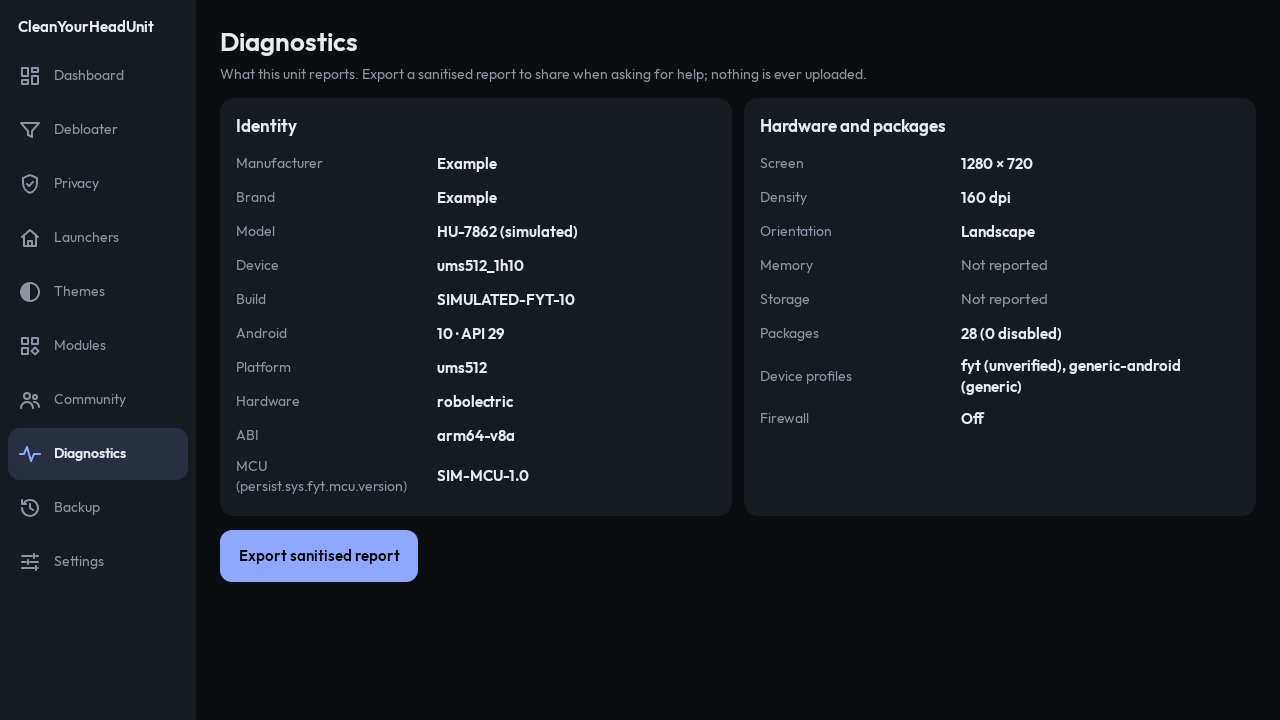
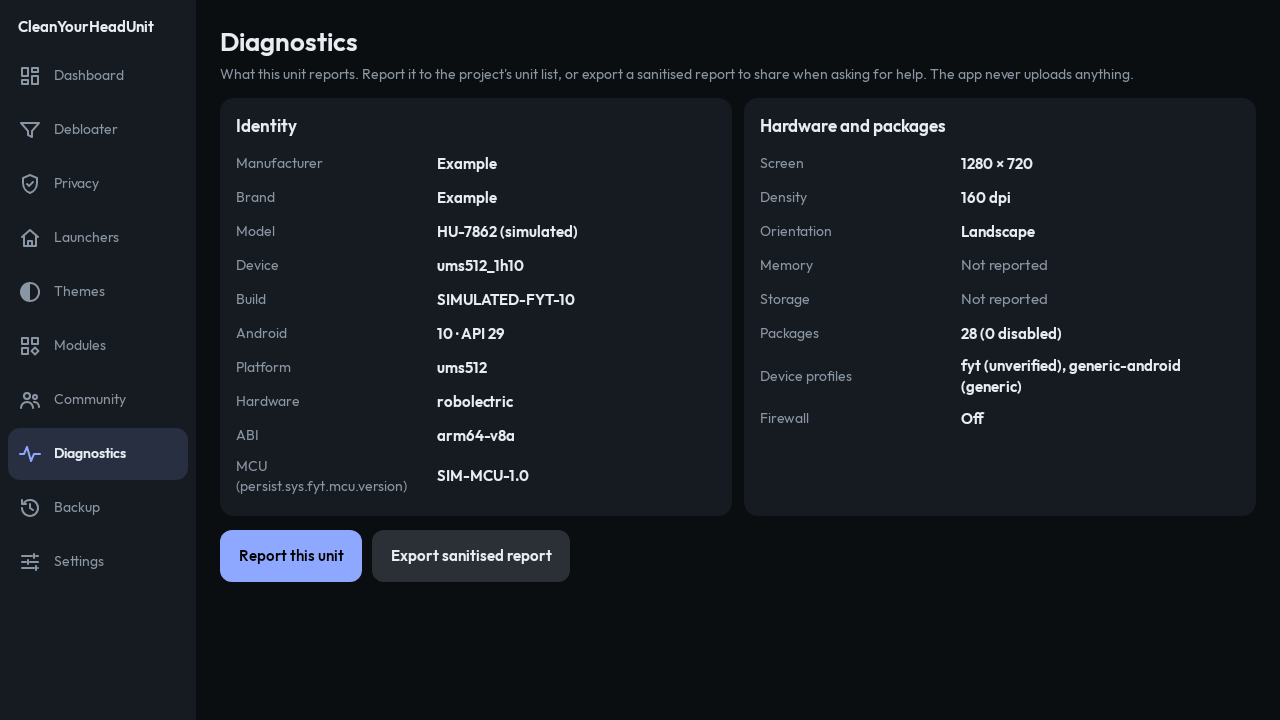
Diagnostics: Report this unit opens a pre-filled Compatibility report form
Fixed list of non-identifying facts (model, chip, real and claimed Android,
firmware, MCU, screen, package counts); shown before opening; nothing is
sent by the app. The form now asks for the car.

Changed region(s): [[0.1875, 0.7333, 0.4688, 0.825], [0.2812, 0.0917, 0.875, 0.1222]]

diff --git a/app/src/main/java/io/github/maxhayim/cleanyourheadunit/UnitReport.java b/app/src/main/java/io/github/maxhayim/cleanyourheadunit/UnitReport.java
@@ -1,0 +1,166 @@
+package io.github.maxhayim.cleanyourheadunit;
+
+import android.app.AlertDialog;
+import android.content.ActivityNotFoundException;
+import android.content.Context;
+import android.content.Intent;
+import android.net.Uri;
+
+import org.json.JSONException;
+import org.json.JSONObject;
+
+import java.io.File;
+import java.io.UnsupportedEncodingException;
+import java.net.URLEncoder;
+import java.util.LinkedHashMap;
+import java.util.Map;
+
+/**
+ * "Report this unit": opens GitHub's Compatibility report form in the browser, filled in with what
+ * the Dashboard shows. Only a fixed list of non-identifying facts goes in (never serials, MAC or IP
+ * addresses, network or account names). Nothing is sent by the app: the owner reads the form,
+ * adds the car and what worked, and presses Submit on GitHub themselves.
+ */
+final class UnitReport {
+    private UnitReport() {}
+
+    static final String FORM = "https://github.com/" + SelfUpdate.REPO + "/issues/new?template=compatibility-report.yml";
+    /** GitHub refuses very long addresses; stay well under its limit. */
+    static final int MAX_URL = 6000;
+
+    /** The only properties that go in. Each is also passed through Report.scrub. */
+    static final String[][] FACTS = {
+            {"manufacturer", "ro.product.manufacturer"},
+            {"brand", "ro.product.brand"},
+            {"model", "ro.product.model"},
+            {"device", "ro.product.device"},
+            {"platform", "ro.board.platform"},
+            {"hardware", "ro.hardware"},
+            {"build", "ro.build.display.id"},
+    };
+
+    static String prop(Unit u, String key) {
+        String v = Report.scrub(u.props.get(key));
+        return v == null || v.trim().isEmpty() ? null : v.trim();
+    }
+
+    /** The summary pasted into the form's Diagnostics box. */
+    static JSONObject summary(Context c, Unit u) throws JSONException {
+        JSONObject o = new JSONObject();
+        o.put("app", "CleanYourHeadUnit " + Screens.BuildConfigHolder.version(c));
+        for (String[] f : FACTS) {
+            String v = prop(u, f[1]);
+            if (v != null) o.put(f[0], v);
+        }
+        o.put("android", u.android());
+        if (u.androidSpoofed()) o.put("android_settings_say", u.claimedAndroid());
+        o.put("api", u.sdk());
+        if (u.abi() != null) o.put("abi", u.abi());
+        JSONObject mcu = new JSONObject();
+        for (Map.Entry<String, String> e : u.mcu().entrySet()) mcu.put(e.getKey(), Report.scrub(e.getValue()));
+        if (mcu.length() > 0) o.put("mcu", mcu);
+        o.put("screen", u.width + "x" + u.height + " " + u.dpi + "dpi " + u.orientation());
+        o.put("ram", Unit.mb(u.ramTotal));
+        o.put("firmware_family", u.firmwareFamily());
+        o.put("profiles", Screens.Diagnostics.profileNames(u));
+        Map<String, Integer> counts = new LinkedHashMap<>();
+        Rules r = u.rules(c);
+        for (Unit.Pkg p : u.packages.values()) {
+            String cat = r.classify(p.name, p.system).category;
+            Integer n = counts.get(cat);
+            counts.put(cat, n == null ? 1 : n + 1);
+        }
+        o.put("packages", new JSONObject(counts));
+        o.put("disabled", u.disabledCount());
+        if (u.home != null) o.put("home_app", u.home.getPackageName());
+        return o;
+    }
+
+    static String firmwareLine(Unit u) {
+        StringBuilder s = new StringBuilder("Android ").append(u.androidLabel()).append(", API ").append(u.sdk());
+        String build = prop(u, "ro.build.display.id");
+        if (build != null) s.append(", build ").append(build);
+        for (String v : u.mcu().values()) s.append(", MCU ").append(Report.scrub(v));
+        String fam = u.firmwareFamily();
+        if (fam != null && !"unknown".equals(fam)) s.append(", ").append(fam).append(" firmware");
+        return s.toString();
+    }
+
+    static String unitLine(Unit u) {
+        String brand = prop(u, "ro.product.brand"), model = prop(u, "ro.product.model");
+        StringBuilder s = new StringBuilder();
+        if (brand != null) s.append(brand);
+        if (model != null) s.append(s.length() > 0 ? " " : "").append(model);
+        if (u.chipset() != null) s.append(" (").append(Report.scrub(u.chipset())).append(")");
+        return s.toString();
+    }
+
+    static final String CHECKLIST = "- [ ] CleanYourHeadUnit opened and the Dashboard looked right\n"
+            + "- [ ] Android version and firmware shown correctly\n"
+            + "- [ ] Launchers list looked right\n"
+            + "- [ ] Disabled something and restored it (say which)\n"
+            + "- [ ] Radio, camera, Bluetooth calls, steering-wheel keys still fine afterwards\n";
+
+    static String url(Context c, Unit u) throws JSONException {
+        Map<String, String> q = new LinkedHashMap<>();
+        q.put("title", "Unit report: " + unitLine(u) + ", Android " + u.android());
+        q.put("unit", unitLine(u));
+        q.put("firmware", firmwareLine(u));
+        q.put("checklist", CHECKLIST);
+        q.put("diagnostics", summary(c, u).toString(2));
+        StringBuilder s = new StringBuilder(FORM);
+        for (Map.Entry<String, String> e : q.entrySet()) s.append('&').append(e.getKey()).append('=').append(enc(e.getValue()));
+        if (s.length() > MAX_URL) {
+            // Drop the long part rather than send a link GitHub would reject.
+            s.setLength(0);
+            s.append(FORM);
+            q.remove("diagnostics");
+            for (Map.Entry<String, String> e : q.entrySet()) s.append('&').append(e.getKey()).append('=').append(enc(e.getValue()));
+        }
+        return s.toString();
+    }
+
+    static String enc(String v) {
+        try {
+            return URLEncoder.encode(v, "UTF-8").replace("+", "%20");
+        } catch (UnsupportedEncodingException e) {
+            throw new IllegalStateException(e);
+        }
+    }
+
+    /** Shows exactly what goes in, then opens the form only if the owner agrees. */
+    static void open(final MainActivity a) {
+        final String url, preview;
+        try {
+            url = url(a, a.unit);
+            preview = "Unit: " + unitLine(a.unit) + "\nFirmware: " + firmwareLine(a.unit) + "\n\n" + summary(a, a.unit).toString(2);
+        } catch (JSONException e) {
+            a.info("Couldn't build the report", String.valueOf(e.getMessage()));
+            return;
+        }
+        new AlertDialog.Builder(a).setTitle("Report this unit?")
+                .setMessage("This opens GitHub's Compatibility report form in the browser, already filled in with:\n\n" + preview
+                        + "\n\nNo serial numbers, MAC or IP addresses, network or account names. Nothing is sent until you press Submit on GitHub, "
+                        + "after adding your car and what worked. Reporting needs a free GitHub account.")
+                .setPositiveButton("Open the form", (d, w) -> launch(a, url))
+                .setNegativeButton("Cancel", null)
+                .show();
+    }
+
+    static void launch(MainActivity a, String url) {
+        try {
+            a.startActivity(new Intent(Intent.ACTION_VIEW, Uri.parse(url)));
+        } catch (ActivityNotFoundException e) {
+            String text;
+            try {
+                text = "Unit: " + unitLine(a.unit) + "\nFirmware: " + firmwareLine(a.unit) + "\n\n" + summary(a, a.unit).toString(2) + "\n";
+            } catch (JSONException x) {
+                text = "";
+            }
+            File f = a.export("cleanyourheadunit-unit-report.txt", text);
+            a.info("No browser on this unit", (f == null ? "" : "The report is saved at " + f.getAbsolutePath() + ".\n\n")
+                    + "On your phone, open github.com/" + SelfUpdate.REPO + "/issues, choose New issue → Compatibility report, "
+                    + "and paste the report (LocalSend can carry the file over).");
+        }
+    }
+}

diff --git a/app/src/test/java/io/github/maxhayim/cleanyourheadunit/ScreensTest.java b/app/src/test/java/io/github/maxhayim/cleanyourheadunit/ScreensTest.java
@@ -155,6 +155,17 @@ public class ScreensTest {
         String report = Report.build(a);
         assertFalse(report, report.contains("FAKE1234567890"));
         assertFalse(report.contains("02:00:00:aa:bb:cc"));
+        assertTrue(all(a).contains("Report this unit"));
+        String url = UnitReport.url(a, a.unit);
+        assertTrue(url, url.startsWith("https://github.com/maxhayim/CleanYourHeadUnit/issues/new?template=compatibility-report.yml&title="));
+        assertTrue("too long for GitHub: " + url.length(), url.length() <= UnitReport.MAX_URL);
+        String decoded = java.net.URLDecoder.decode(url, "UTF-8");
+        assertTrue(decoded, decoded.contains("HU-7862 (simulated)"));
+        assertTrue(decoded, decoded.contains("\"api\": 29"));
+        assertTrue(decoded, decoded.contains("SIM-MCU-1.0"));
+        assertFalse("serial in report link", decoded.contains("FAKE1234567890"));
+        assertFalse("MAC in report link", decoded.toLowerCase(java.util.Locale.ROOT).contains("aa:bb:cc"));
+        assertFalse("fingerprint in report link", decoded.contains("release-keys"));
         shot(a, "diagnostics-1280x720");
 
         a.show("backup");

diff --git a/app/src/main/java/io/github/maxhayim/cleanyourheadunit/Screens.java b/app/src/main/java/io/github/maxhayim/cleanyourheadunit/Screens.java
@@ -624,10 +624,11 @@ final class Screens {
 
         public View build(MainActivity a) {
             LinearLayout l = Ui.vbox(a);
-            l.addView(Ui.header(a, "Diagnostics", "What this unit reports. Export a sanitised report to share when asking for help; nothing is ever uploaded."));
+            l.addView(Ui.header(a, "Diagnostics", "What this unit reports. Report it to the project's unit list, or export a sanitised report to share when asking for help. The app never uploads anything."));
             Ui.add(l, device(a), 14);
             Ui.Flow b = new Ui.Flow(a);
-            b.addView(Ui.button(a, "Export sanitised report", true, v -> {
+            b.addView(Ui.button(a, "Report this unit", true, v -> UnitReport.open(a)));
+            b.addView(Ui.button(a, "Export sanitised report", false, v -> {
                 String rep = Report.build(a);
                 File f = a.export("cleanyourheadunit-diagnostics.json", rep);
                 if (f != null) {

diff --git a/COMPATIBILITY.md b/COMPATIBILITY.md
@@ -1,6 +1,6 @@
 # Compatibility
 
-**No real head unit has been tested yet.** This page says what the code supports, what it has been tested against (simulated units only), and what's still unknown. It will only claim a unit works once someone has run the [hardware checklist](docs/hardware-checklist.md) on it and filed a [compatibility report](https://github.com/maxhayim/CleanYourHeadUnit/issues/new/choose).
+**One real head unit has been tried so far** (read-only; see [docs/units](docs/units/README.md)). This page says what the code supports, what it has been tested against, and what's still unknown. It will only claim a unit works once someone has run the [hardware checklist](docs/hardware-checklist.md) on it and filed a [compatibility report](https://github.com/maxhayim/CleanYourHeadUnit/issues/new/choose).
 
 ## Android versions
 
@@ -53,4 +53,6 @@ One page per unit, grouped by firmware family: [docs/units](docs/units/README.md
 
 ## Reporting a unit
 
-Please use the **Compatibility report** issue template and attach `cyhu diagnostics` output, which is sanitised: serial numbers, MAC addresses and account and network names are removed. Read it before you post it. Say which checklist items you ran and what happened, including anything that *didn't* work.
+In the app, **Diagnostics → Report this unit** opens the form in the unit's browser, already filled in with the model, chip, real and claimed Android, firmware, screen and package counts (never serials, MAC or IP addresses, or network and account names); you add the car and what worked, and press Submit. It needs a free GitHub account. 
+
+From a computer, use the **Compatibility report** issue template and attach `cyhu diagnostics` output, which is sanitised: serial numbers, MAC addresses and account and network names are removed. Read it before you post it. Say which checklist items you ran and what happened, including anything that *didn't* work.

diff --git a/README.md b/README.md
@@ -156,7 +156,7 @@ com.adups.fota  [advanced]
 
 <p>Every real unit has its own page, grouped by firmware family, in <a href="docs/units/README.md">docs/units</a>.</p>
 
-<p>The test suite runs against four simulated units (FYT Android 10 at 1280×720, ALPS Android 8 at 1024×600, DoFun Android 12 in portrait at 1080×1920, and Android 4.4 at 800×480), plus 1920×720. To report a real unit, use the <a href="https://github.com/maxhayim/CleanYourHeadUnit/issues/new/choose">compatibility report</a> template.</p>
+<p>The test suite runs against four simulated units (FYT Android 10 at 1280×720, ALPS Android 8 at 1024×600, DoFun Android 12 in portrait at 1080×1920, and Android 4.4 at 800×480), plus 1920×720. To report a real unit, press <strong>Diagnostics → Report this unit</strong> in the app (it opens the <a href="https://github.com/maxhayim/CleanYourHeadUnit/issues/new?template=compatibility-report.yml">compatibility report</a> form already filled in), and it gets a page in <a href="docs/units/README.md">docs/units</a>.</p>
 
 <h2>License</h2>
 

diff --git a/CONTRIBUTING.md b/CONTRIBUTING.md
@@ -6,7 +6,7 @@ Please read [SAFETY.md](SAFETY.md) first, and follow the [Code of Conduct](CODE_
 
 ## Most wanted: reports from real units
 
-Run the [hardware checklist](docs/hardware-checklist.md) and open a **Compatibility report** issue with `python3 tools/cyhu.py diagnostics --out report.json`. The report is sanitised, but read it before you post it. Reports of what *didn't* work are just as useful as what did.
+In the app, press **Diagnostics → Report this unit**: it opens the Compatibility report form already filled in, for you to complete and submit. From a computer, run the [hardware checklist](docs/hardware-checklist.md) and open a **Compatibility report** issue with `python3 tools/cyhu.py diagnostics --out report.json`. The report is sanitised, but read it before you post it. Reports of what *didn't* work are just as useful as what did.
 
 ## Device profiles
 

diff --git a/docs/units/README.md b/docs/units/README.md
@@ -22,7 +22,9 @@ No real unit reported yet.
 
 ## Adding a unit
 
-Open a **compatibility report** issue, or a pull request adding a page here. A page needs:
+The easy way: In the app, **Diagnostics → Report this unit** opens the form in the unit's browser, already filled in with the model, chip, real and claimed Android, firmware, screen and package counts (never serials, MAC or IP addresses, or network and account names); you add the car and what worked, and press Submit. It needs a free GitHub account. Each report becomes a page here.
+
+Or open a **Compatibility report** issue by hand, or a pull request adding a page here. A page needs:
 
 - the retail name and the car it's made for
 - what CleanYourHeadUnit's Dashboard shows: model, chip, Android (real and claimed), screen, firmware family

diff --git a/CHANGELOG.md b/CHANGELOG.md
@@ -2,6 +2,13 @@
 
 All notable changes to this project are listed here. Versions follow [Semantic Versioning](https://semver.org/).
 
+## [Unreleased]
+
+### Added
+
+- Diagnostics → **Report this unit**: opens GitHub's Compatibility report form in the browser, filled in with the model, chip, real and claimed Android, firmware, MCU, screen and package counts per category. It shows exactly what goes in first, never includes serials, MAC or IP addresses, or network and account names, and sends nothing itself: the owner adds the car and presses Submit. Without a browser it saves the report to a file instead.
+- The Compatibility report form asks for the car (make, model, years)
+
 ## [0.1.1] - 2026-11-08
 
 ### Added

diff --git a/docs/hardware-checklist.md b/docs/hardware-checklist.md
@@ -47,6 +47,6 @@ Record the result of each step (pass, fail or not applicable) in a Compatibility
 ## F. Report
 
 - [ ] F1. `cyhu restore --all`; A5 once more.
-- [ ] F2. File a Compatibility report with `cyhu diagnostics --out report.json` (read it first), the results above, and the unit's make and model as sold.
+- [ ] F2. File a Compatibility report: Diagnostics → Report this unit in the app, or `cyhu diagnostics --out report.json` (read it first), the results above, and the unit's make and model as sold.
 
 A profile can become `tested` after a passing run of A–C and F on at least one named unit.
